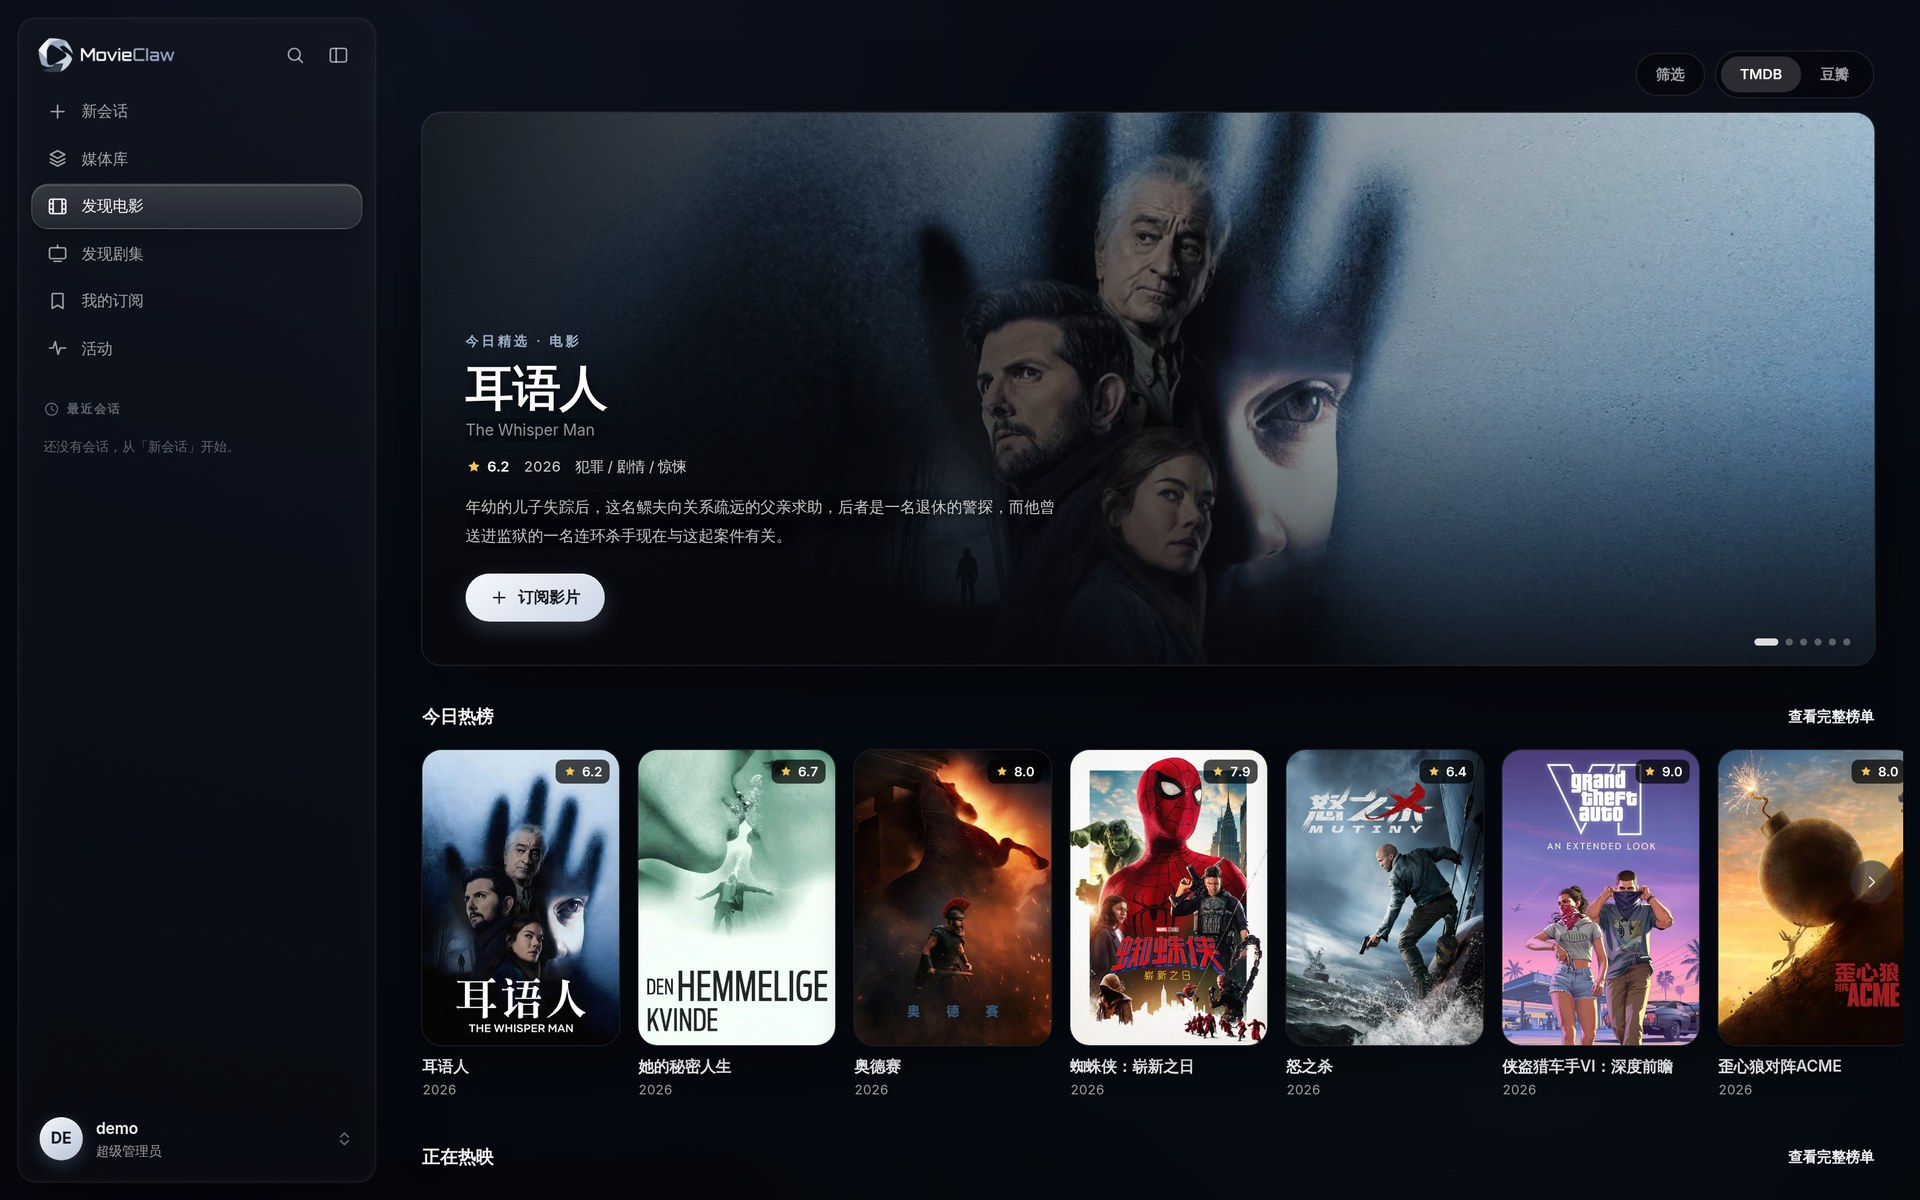
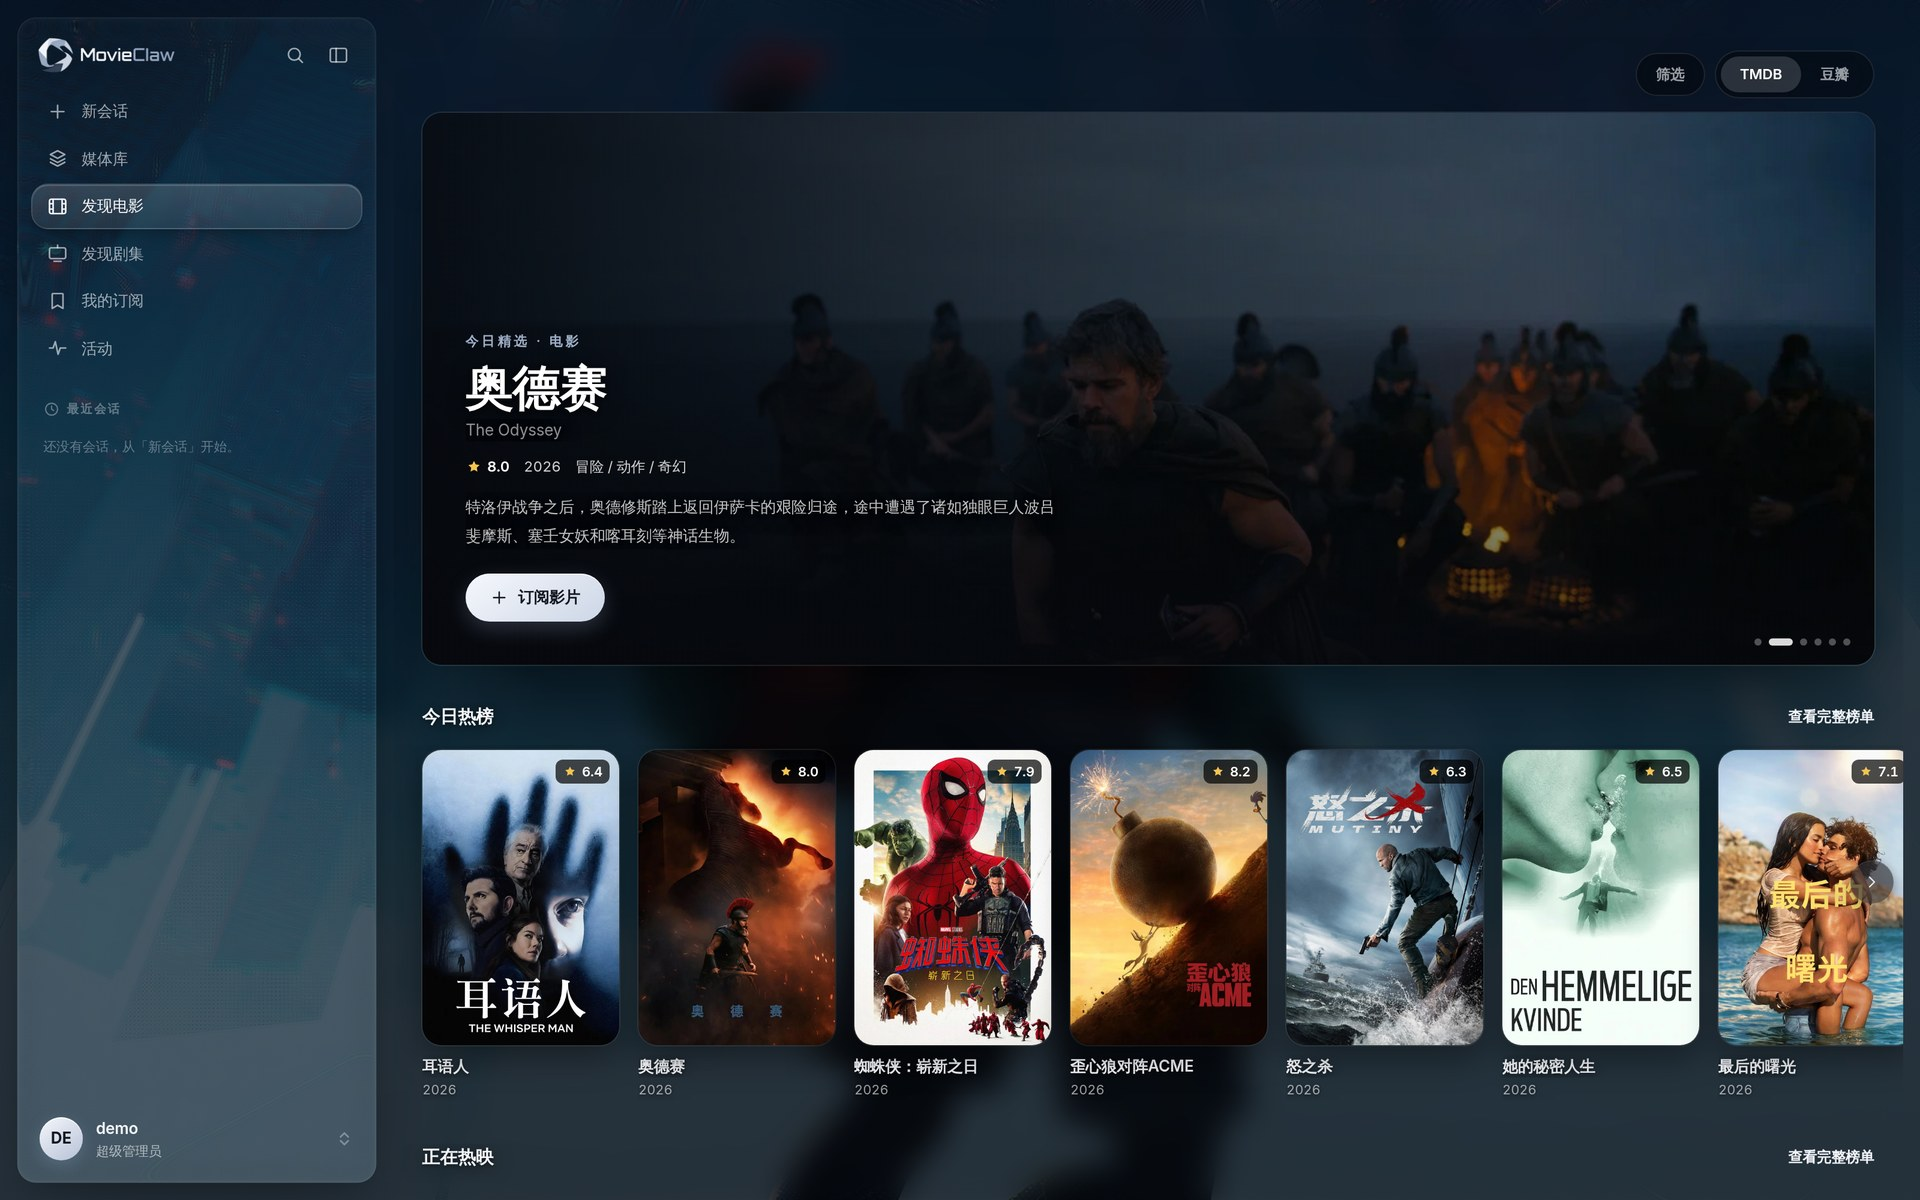
docs(readme): 重拍截图，补上液态玻璃与手机端 (#245)
上一版截图把产品最容易被一眼记住的两点丢了：液态玻璃与移动端。

根因是背景图。液态玻璃是 WebGL 着色器，每块面板按元素在视口中的位置采样背景图
做边缘折射和色差（apps/web/lib/glass.ts）。上一版用的是出厂默认背景，那张图在
设置页里的名字就叫「默认背景 · 深色调」，是一张刻意压暗的低对比图，玻璃没有可
折射的内容，于是全部退化成普通深色面板。先验证过无头 Chromium 的 WebGL 可用
（SwiftShader 软件渲染），排除了降级成 CSS 的可能。

重拍方式沿用产品自身的指引：外观设置页写着「建议使用 16:9、分辨率较高的横图……
玻璃面板的折射随生效图一并更新」，于是用「上传背景图」这个功能换了一张库里刮下来
的剧照再拍，不是外部修图。换完之后输入框后面的建筑线条被明显折射弯曲，侧栏透出
背景。hero 与另外三张同步重拍以统一视觉；series-detail.jpg 字节未变，因为剧集详情页
被条目自己的剧照满幅覆盖，不受站点背景图影响。

新增 glass.jpg（工作台，玻璃折射背景图）与 mobile.jpg（手机端媒体库与剧集详情并排，
iPhone 视口 393×852 @3x）。功能列表补一条「手机上是同一套界面」，之前关于外观和
移动端一个字都没有。图片总体积 1.2 MB → 2.0 MB。

顺带清掉 demo 库里做「待识别」实验留下的两个文件，以及删文件后残留的孤儿台账。

注意：README 里 iOS 独立 App、无地址栏、安全区让位这几句是从代码核实的
（manifest.ts 的 display: standalone、layout.tsx 的 viewport-fit=cover、
globals.css 的 env(safe-area-inset-*)），不是真机验证——Playwright 无法模拟
standalone 模式与安全区，所附手机截图是移动视口下的浏览器形态。

diff --git a/README.md b/README.md
@@ -80,6 +80,20 @@ MovieClaw 把这条链路做进一个进程：
   </tr>
 </table>
 
+界面是液态玻璃：侧栏、输入框、悬浮按钮都在实时折射你设的那张背景图，边缘带一点色差。
+背景图在「设置 → 外观」里换，换完折射跟着变，跨设备访问同一实例保持一致。
+
+<p align="center">
+  <img src="docs/images/glass.jpg" width="900" alt="工作台，液态玻璃面板折射背景图">
+</p>
+
+手机上是同一套界面，不是另做一个阉割版。iOS 里「添加到主屏幕」按独立 App 跑，
+没有浏览器地址栏，刘海和底部指示条也都让开了。
+
+<p align="center">
+  <img src="docs/images/mobile.jpg" width="620" alt="手机上的媒体库与剧集详情">
+</p>
+
 ## 它能替你做什么
 
 ### 给看片的人
@@ -94,6 +108,8 @@ MovieClaw 把这条链路做进一个进程：
 - **这台机器没有硬解？把转码交给一台 Mac。** 远程转码 Worker 是个 macOS 菜单栏 App
   （Apple Silicon，走 VideoToolbox 硬件编码），一台常年开着的 Mac mini 正合适。
   NAS 那边仍然只管鉴权、播放决策和取流，编码活儿派出去。
+- **手机上是同一套界面。** iOS 里「添加到主屏幕」就是一个独立 App，没有地址栏，
+  刘海和底部指示条都让开了。界面是液态玻璃，面板实时折射你自己设的背景图。
 - **家人一人一个账号。** 能看哪些库、能不能订阅、能不能直接下载，逐项开关。
   播放进度、已看标记、收藏各存各的，互不干扰。
 
